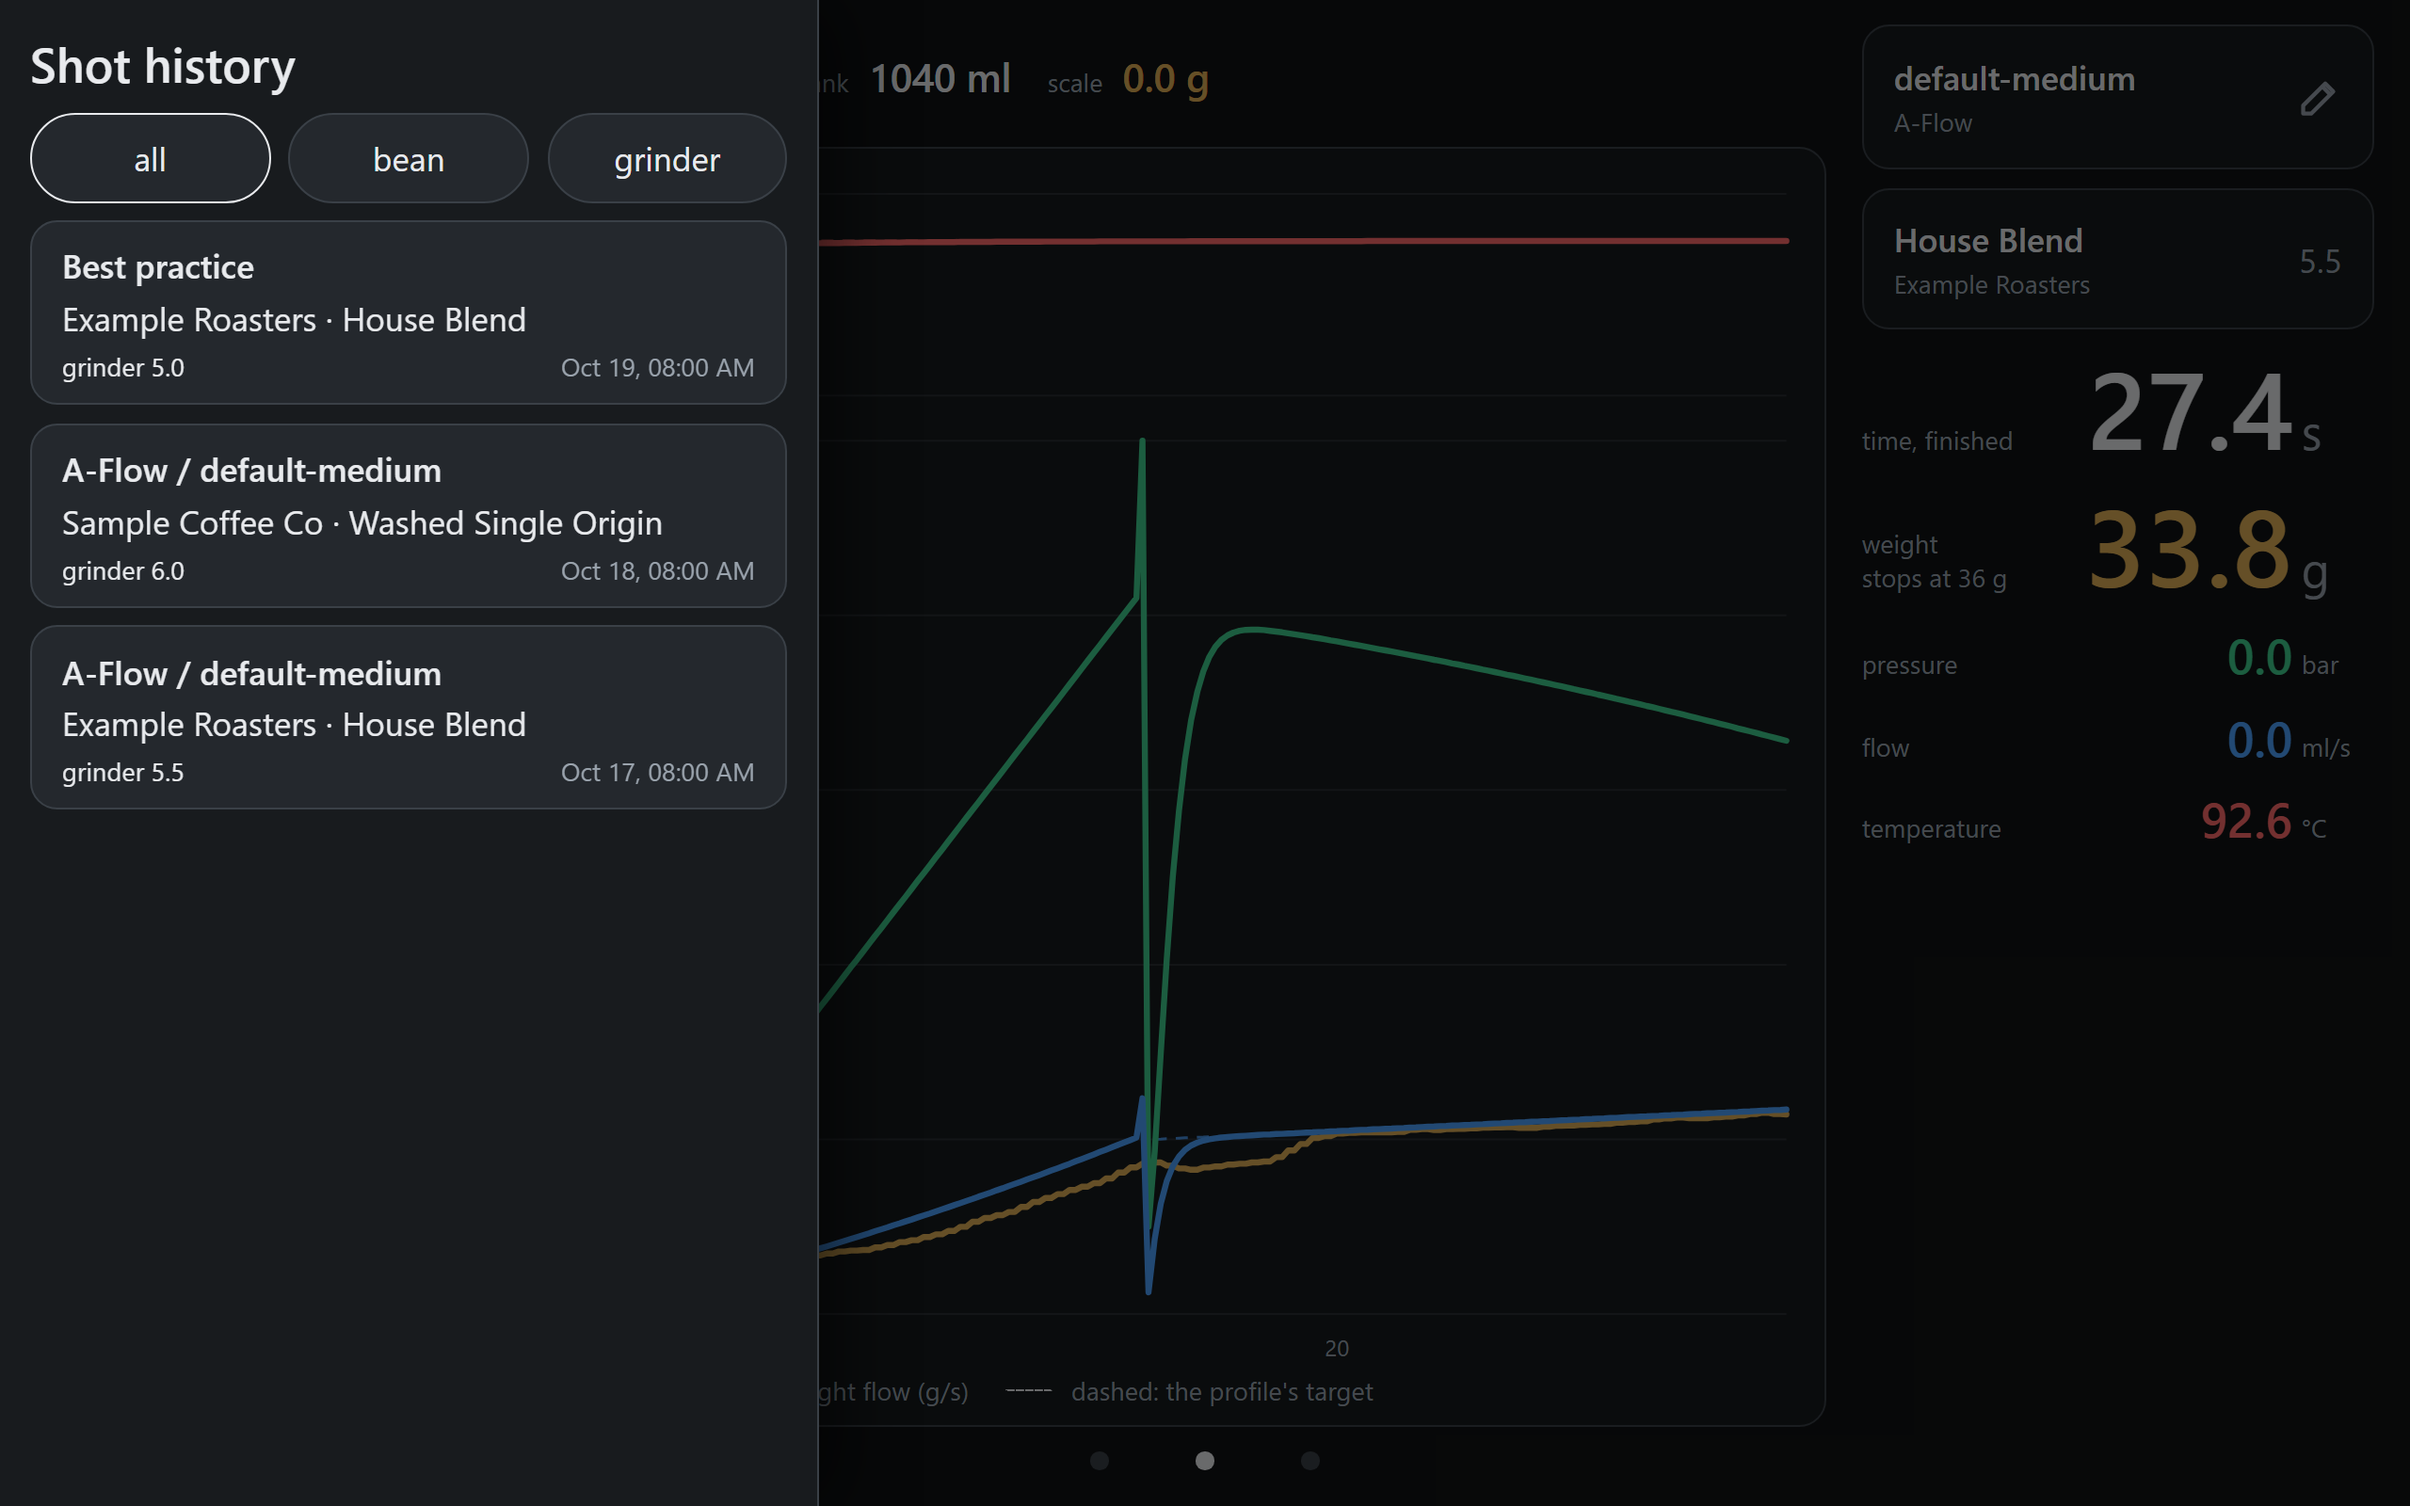
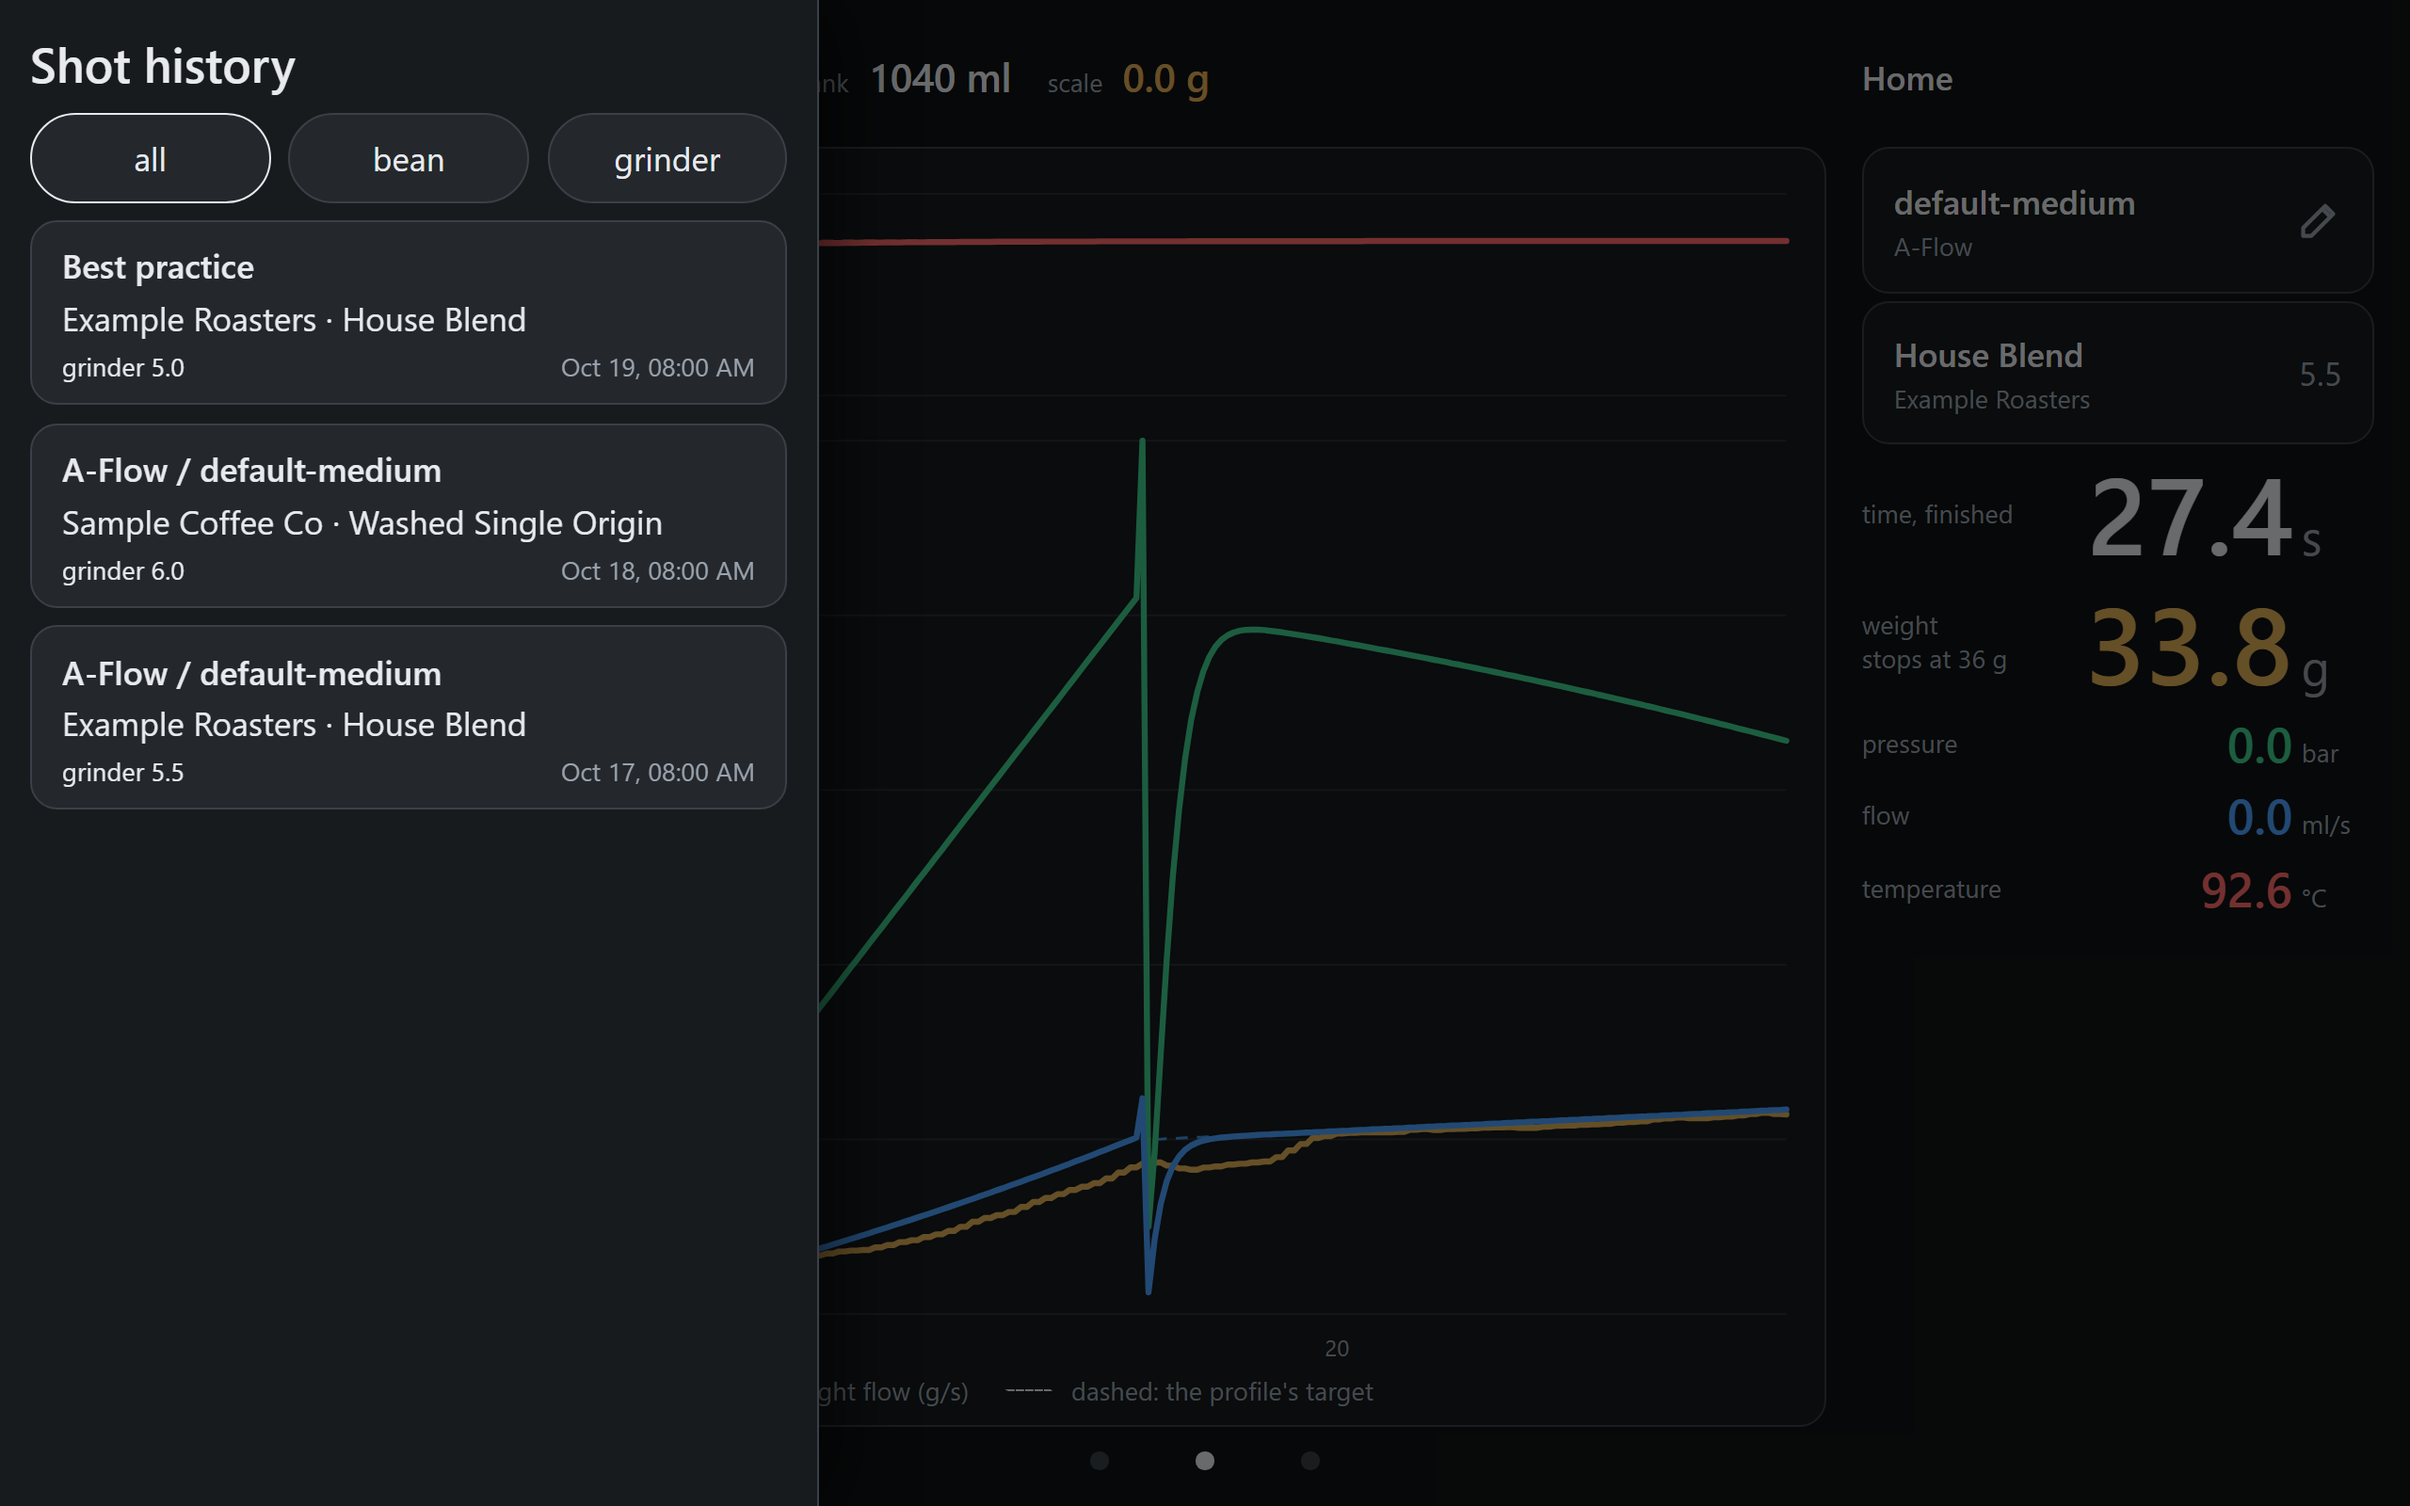
r46-home-cards-row2: on home the profile card starts level with the graph's top edge, and the title 'Home' stands at the top right
The right column (profile, bean, time, weight, values, stop) now starts in the graph's row; the header keeps the first row with the title 'Home' (h1, the style of the beans and settings pages) in its right cell. Running and finished shots are laid out as before. The user guide names the layout and its home pictures are taken again. The specs that expected the column at the page's top (one-header, strip-step) expect it level with the graph; new spec home-cards-row2 checks tops within 1 px with a long profile name, running and finished, and one h1.

Screenshots (running, finished): docs/product/home-cards-row2-running.png and -finished.png in the working copy (that folder is not tracked).

Open for the founder:
- At the extra-large display size the column, one row shorter, overflowed by 46 px (at medium it fits). Smallest change taken: the gap in the column, between the profile and bean cards, the big numbers and the three values, is spacing token 1 (0.3 rem) instead of 2 (0.6 rem); sizes are unchanged. This also tightens the column a little at the other sizes.
- The rig was not up (port 8080 closed), so no rig spec ran; none of the rig specs that read home query the column's top or a heading, so none is expected to break.
- The h1 is 'Home' in the page body's size, weight 600, like Beans and Settings (History uses title size).

Task: Z96
Changelog: changed

diff --git a/e2e/home-cards-row2.spec.ts b/e2e/home-cards-row2.spec.ts
@@ -1,0 +1,64 @@
+import { expect, test, type Page } from '@playwright/test';
+import { mockGateway } from './mock-gateway';
+
+// Home's right column starts in the graph's row: the profile card's top edge is the graph
+// frame's top edge, running and finished, and the title 'Home' is in the first row's right cell.
+
+const errors: string[] = [];
+
+test.beforeEach(({ page }) => {
+  errors.length = 0;
+  page.on('console', (message) => {
+    if (message.type() === 'error') errors.push(message.text());
+  });
+  page.on('pageerror', (error) => errors.push(error.message));
+});
+
+const box = async (page: Page, testid: string) => (await page.getByTestId(testid).boundingBox())!;
+
+test('the profile card and the graph frame share a top edge with a long name and the pencil, running and finished; one h1 Home', async ({
+  page,
+}) => {
+  const gateway = await mockGateway(page);
+  gateway.workflow.profile = {
+    ...gateway.workflow.profile,
+    title: 'A-Flow 3.0 by a very long family name / a very long profile name that never fits into the column',
+  };
+  await page.goto('/');
+  await expect(page.getByTestId('status-title')).toHaveText('Idle');
+  await expect(page.getByTestId('open-editor')).toBeVisible();
+
+  const tops = async () => {
+    const profile = (await page.getByTestId('shot-column').locator('.profile').boundingBox())!;
+    const frame = (await page.locator('[data-testid="home-shot"] [data-main-frame]').first().boundingBox())!;
+    return { profile: profile.y, frame: frame.y };
+  };
+  const level = async () => {
+    const { profile, frame } = await tops();
+    expect(Math.abs(profile - frame)).toBeLessThanOrEqual(1);
+  };
+  await level();
+
+  const title = page.getByRole('heading', { name: 'Home', level: 1 });
+  await expect(title).toHaveCount(1);
+  await expect(page.getByRole('heading', { level: 1 })).toHaveCount(1);
+  // The title is in the first row's right cell: right of the header, above the column, same top as the graph's row above it.
+  const own = (await title.boundingBox())!;
+  const column = await box(page, 'shot-column');
+  expect(own.x).toBeGreaterThanOrEqual(column.x - 1);
+  expect(own.y + own.height).toBeLessThanOrEqual(column.y);
+
+  await gateway.replay(page, 0, 0.6);
+  await expect(page.getByTestId('home-shot')).toHaveAttribute('data-shot', 'running');
+  await level();
+  await page.screenshot({ path: 'docs/product/home-cards-row2-running.png' });
+
+  await gateway.replay(page, 0.6, 1);
+  await expect(page.getByTestId('status-title')).toHaveText('Idle');
+  await expect(page.getByTestId('home-shot')).toHaveAttribute('data-shot', 'finished');
+  await expect(page.getByTestId('shot-phases')).toBeVisible();
+  await level();
+  await expect(page.getByRole('heading', { name: 'Home', level: 1 })).toHaveCount(1);
+  await page.screenshot({ path: 'docs/product/home-cards-row2-finished.png' });
+  expect(errors).toEqual([]);
+});

diff --git a/src/shell/ShotView.svelte b/src/shell/ShotView.svelte
@@ -10,7 +10,7 @@
 
   interface Props {
     skin: Skin;
-    /** home's header, left of the right column, which starts at the page's top beside it */
+    /** home's header, left of the title; the right column starts below both, level with the graph */
     top?: Snippet;
   }
 
@@ -53,6 +53,7 @@
 
 <div class="shot" class:values={table !== null} data-testid="home-shot" data-shot={shown.kind}>
   <div class="top">{@render top?.()}</div>
+  <h1 data-testid="home-title">Home</h1>
   <!-- No strip and no caption over the graph: the step is in the state line, the shot's time
        and weight and a recalled entry's profile, bean and grinder in the column. -->
   <div class="plot" data-testid={PLOT[shown.kind]} data-main-frame>
@@ -145,19 +146,29 @@
     display: grid;
     grid-template-columns: minmax(0, 1fr) 17rem;
     grid-template-rows: auto minmax(0, 1fr);
-    grid-template-areas: 'top side' 'plot side';
+    grid-template-areas: 'top title' 'plot side';
     gap: var(--space-2) var(--space-3);
   }
 
   /* The table's row only when it is drawn: else the graph takes its height. */
   .shot.values {
     grid-template-rows: auto minmax(0, 1fr) auto;
-    grid-template-areas: 'top side' 'plot side' 'table side';
+    grid-template-areas: 'top title' 'plot side' 'table side';
   }
 
   .top {
     grid-area: top;
     min-width: 0;
+  }
+
+  /* a page's header is a name, as on steam and hot water */
+  h1 {
+    grid-area: title;
+    align-self: center;
+    margin: 0;
+    font-size: var(--text-body);
+    font-weight: 600;
+    line-height: 1.15;
   }
 
   .plot {
@@ -227,7 +238,8 @@
     min-height: 0;
     display: flex;
     flex-direction: column;
-    gap: var(--space-2);
+    /* the column has one row less than the page: the smaller gap is what keeps the stop button in view at the largest display size */
+    gap: var(--space-1);
   }
 
   small,
@@ -282,7 +294,7 @@
     margin: 0;
     display: flex;
     flex-direction: column;
-    gap: var(--space-2);
+    gap: var(--space-1);
   }
 
   dd {

diff --git a/e2e/one-header.spec.ts b/e2e/one-header.spec.ts
@@ -4,7 +4,7 @@ import { toPage } from './touch';
 
 // One header on home, steam and hot water: the menu
 // in the top left corner, the state line right of it at the same place with the same values, the
-// page's title at the right end; on home the right column beside it.
+// page's title at the right end; on home the title 'Home' is at the right end and the right column under it.
 
 const errors: string[] = [];
 
@@ -52,9 +52,9 @@ test('the menu is in the top left corner of home, steam and hot water, the state
   const home = await measure(page, 'home');
   await expect(home.header.getByTestId('page-title')).toHaveCount(0);
   expect(home.entries).toContain('open-settings');
-  // The right column starts at the page's top beside the header, which ends left of it.
+  // The right column starts level with the graph, under the header's row, which ends left of it.
   const column = (await page.getByTestId('shot-column').boundingBox())!;
-  expect(Math.abs(column.y - home.own.y)).toBeLessThan(2);
+  expect(column.y).toBeGreaterThan(home.own.y + home.own.height - 1);
   expect(home.own.x + home.own.width).toBeLessThanOrEqual(column.x);
   await page.screenshot({ path: 'docs/product/header-home.png' });
 

diff --git a/e2e/strip-step.spec.ts b/e2e/strip-step.spec.ts
@@ -87,8 +87,10 @@ test('no strip on home; while a shot runs the state line ends with the step’s 
   await expect(page.getByTestId('shot-caption')).toHaveCount(0);
   expect(parseFloat((await page.getByTestId('shot-timer').textContent())!)).toBeGreaterThan(25);
   expect(parseFloat((await page.getByTestId('shot-weight').textContent())!)).toBeGreaterThan(0);
-  // The right column starts at the page's top.
-  expect(Math.abs((await box(page, 'shot-column')).y - header.y)).toBeLessThan(2);
+  // The right column starts level with the graph's top, under the header's row.
+  expect(
+    Math.abs((await box(page, 'shot-column')).y - (await page.locator('[data-main-frame]').first().boundingBox())!.y),
+  ).toBeLessThan(2);
   expect(errors).toEqual([]);
 });
 

diff --git a/src/shell/NextShot.svelte b/src/shell/NextShot.svelte
@@ -61,7 +61,7 @@
   .next {
     display: flex;
     flex-direction: column;
-    gap: var(--space-2);
+    gap: var(--space-1);
   }
 
   .off {

diff --git a/docs/user/guide.md b/docs/user/guide.md
@@ -33,7 +33,7 @@ right on a row goes back too, unless the row is open: then it closes the row.
 ## Home is also the shot screen
 
 Start a shot at the machine. Home draws it live: blue is flow, green pressure, red temperature,
-yellow the weight. While it runs the header names the running step. The right column holds the
+yellow the weight. While it runs the header names the running step; the title **Home** is at the top right. The right column starts level with the graph's top edge and holds the
 time, the weight and the live values, each caption on the left and its number on the right; under
 **weight** it says where the shot stops. After the shot the column reads **time, finished** and
 keeps the shot until the next one starts. A line under the weight says why it stopped, as Decaid
